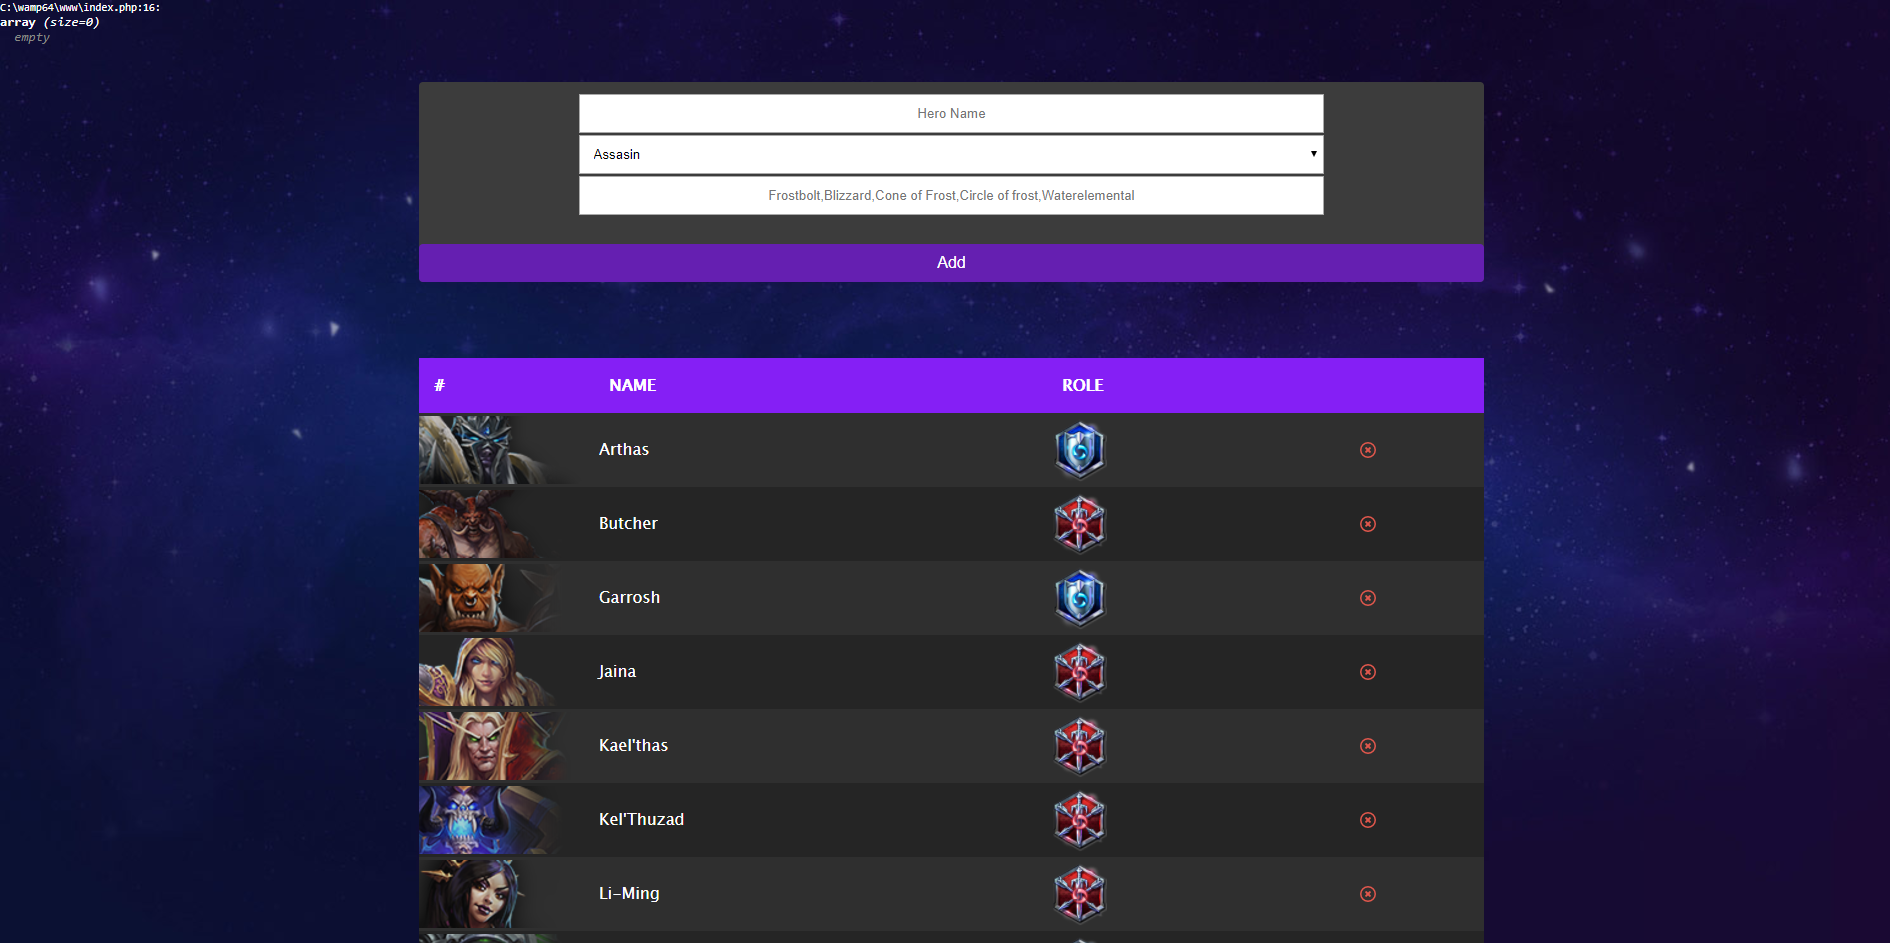
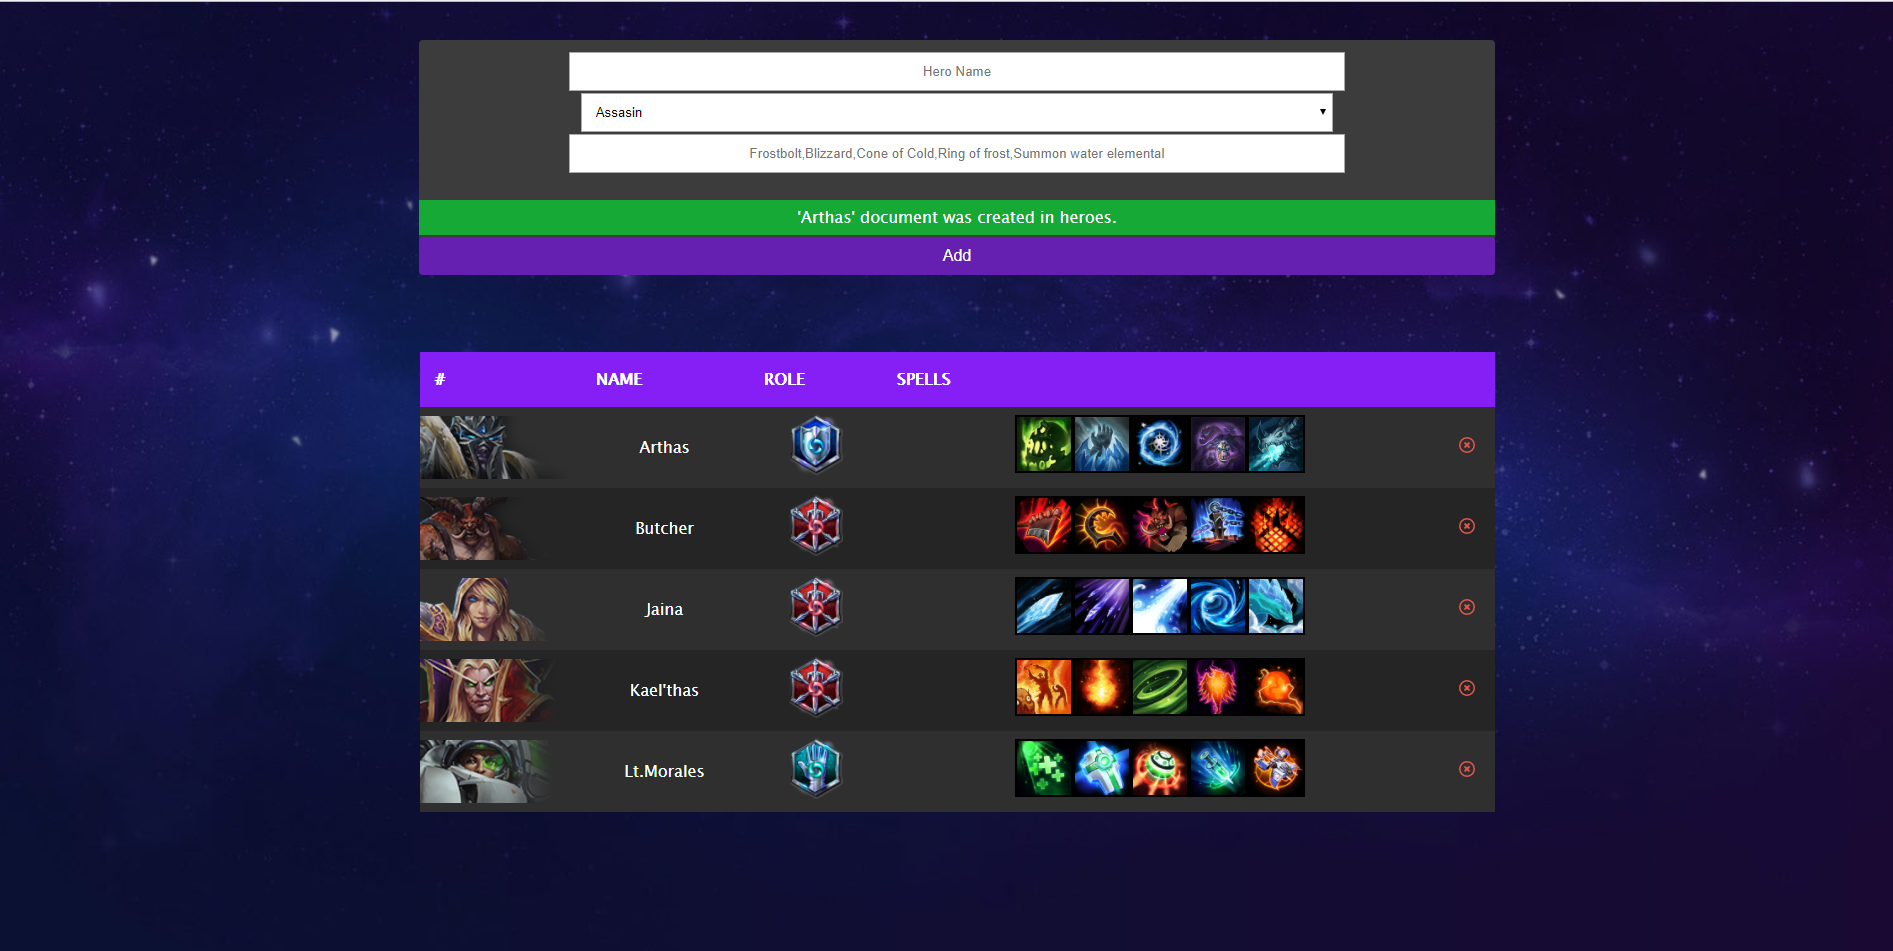
0.3 Release
Add new portrait background, role icons,    adding spells, spells icons, upgrade code, embed db.

diff --git a/css/main.css b/css/main.css
@@ -17,7 +17,7 @@ body{
 	background-size: cover;
 }
 nav{
-	margin-top:15%;
+	margin-top:2%;
 }
 main{
 	margin:0 auto;
@@ -67,7 +67,7 @@ form input[type=submit]:hover, .del:hover{
 	text-align: left;
 }
 .hero-list table td{
-	padding:10px;
+	padding:5px;
 }
 .hero-list table tr:nth-child(odd){
 	background:#2f2f2f;
@@ -81,6 +81,11 @@ form input[type=submit]:hover, .del:hover{
 .hero-role{
 	width: 55px;
     height: 64px;
+}
+.hero-ability{
+	width: 54px;
+    height: 54px;
+	border: 2px solid #000;
 }
 .sucess{
 	background: #16a935;

diff --git a/class/hots.class.php b/class/hots.class.php
@@ -2,7 +2,7 @@
 
 /*********************************************************
  * Name:		HOTS MongoDB Library
- * Version:		v0.2-alpha
+ * Version:		v0.3
  * Author:		Gaizka González Graña (gaizka.gzgr@gmail.com)
  * License:		MIT (https://github.com/Gaizka-gzgr/MOTS-MongoDB-Library-/blob/master/LICENSE)
  * Copyright 2017 - i++
@@ -13,9 +13,10 @@ class Hots
 {
 	//Create private vars.
 	private $client;
-	private $collection;
+	private $heroes;
 	private $url = "mongodb://localhost:27017";
-	private $imgroot = "img/heroes/ui_targetportrait_hero_";
+	private $imgroot = "img/heroes-bg/storm_ui_ingame_partypanel_btn_";
+	private $btnroot = "img/spells/storm_ui_icon_";
 	
 	//We autoload mongodb functions and set private variables
 	public function __construct(){
@@ -25,50 +26,85 @@ class Hots
 		//New MongoDB Object
 		$client = new MongoDB\Client($this->url);
 		
-		//Set the collection to root hots ->heroes
-		$collection = $client->hots->heroes;
+		//Set the heroes to root hots ->heroes
+		$heroes = $client->hots->heroes;
 		
-		//Set our private vars with mongodb client and collection
+		//Set our private vars with mongodb client and heroes 
 		$this->client = $client;
-		$this->collection = $collection;
+		$this->heroes = $heroes;
 	}
 	
-	//We need a function for add documents (heroes) to our collection (hots).
-	public function addHero($name, $role)
+	//We need a function for add documents (heroes) to our heroes (hots).
+	public function addHero($name, $role, $spells)
 	{
 		//Set $_POST Vars and Sanitize&Validate
-		$name = filter_var($_POST['hname'], FILTER_SANITIZE_STRING);
-		$role = filter_var($_POST['htype'], FILTER_SANITIZE_STRING);
+		$name 	= filter_var($_POST['hname'], FILTER_SANITIZE_STRING);
+		$role 	= filter_var($_POST['htype'], FILTER_SANITIZE_STRING);
+		$spells = filter_var($_POST['spells'], FILTER_SANITIZE_STRING);
+		
+		//Add all spells from input box to here.
+		$spell = $this->addSpells($spells);
+		if(empty($spell[0])){$spell[0] = "";}
+		if(empty($spell[1])){$spell[1] = "";}
+		if(empty($spell[2])){$spell[2] = "";}
+		if(empty($spell[3])){$spell[3] = "";}
+		if(empty($spell[4])){$spell[4] = "";}
+
 		
 		//If the vars $name nad $role is not empty we insert them.
 		if(!empty($name && $role))
 		{
-				//Insert one document to collection.
-				$result = $this->collection->insertOne([ 
+				//Insert one document to heroes.
+				$result = $this->heroes->insertOne([ 
 					'name' => $name, 
 					'role' => $role, 
+					'spells' => [ //Embed spell in spells.
+						'spell1' => $spell[0],
+						'spell2' => $spell[1],
+						'spell3' => $spell[2],
+						'ult1' => $spell[3],	
+						'ult2' => $spell[4],
+					]
 				]);
-
+			
 				//Sucess message
-				$_SESSION['msg'] = "<p class='sucess'>'$name' document was created in collection.</p>";
+				$_SESSION['msg'] = "<p class='sucess'>'$name' document was created in heroes.</p>";
 		}
 		//$name nad $role are empty.
 		else
 			$_SESSION['msg'] = "<p class='error'>One of fields are empty!</p>";
 		
 		//We use $_SESSION instead of return message for prevent reload page and insert same document.
-		//We redirect for prevent reload page and reload session message.
 		header("Location: /");
 
 	}
 	
+	//Function doe explode spells array and use it and embed to hero.
+	public function addSpells($spells)
+	{	
+		//Make array with spells
+		$spell = array();
+		
+		//Explode all words with delimiter ","
+		$spell = explode(",", $spells);
+		
+		//Indexing all spells in $i
+		foreach($spell as $index){
+				$i[] = $index;
+		}
+		
+		//Return all spells in array-
+		return $i;
+	}
+	
+	//Function for delete hero 
 	public function delHero($name)
 	{
 		//Set $_POST hero name and sanitize string
 		$name = filter_var($_POST['_heroName'], FILTER_SANITIZE_STRING);
 		
-		//Delete one document from collection.
-		$result = $this->collection->deleteOne([ 
+		//Delete hero with his name from heroes.
+		$result = $this->heroes->deleteOne([ 
 				'name' => $name,
 		]);
 		
@@ -79,31 +115,52 @@ class Hots
 		echo json_encode(array('status' => $status));
 	}
 		
-	
-	//We list all heroes in collection hots
+
+	//We list all heroes in hots->heroes
 	public function listHero()
 	{
 		//Echo table and tr with th.
 		echo '
 			<table>
-			<tr><th>#</th><th>Name</th><th>Role</th><th></th><tr>
+			<tr><th>#</th><th>Name</th><th>Role</th><th>Spells</th><th></th><tr>
 			';
-			//We find all documents in collection "Heroes"
-			$index = $this->collection->find();
-			//For each document, we set name and role and echo them in table with td.
-			foreach($index as $document){
-				$name = $document["name"];
-				$role = $document["role"];
-				echo "<tr><td><img class='hero-portrait' src='$this->imgroot$name.jpg'></td><td class='heroName'>$name</td><td><img class='hero-role' src='img/role/$role.png' alt='Hero role: $role'></td><td><img class='del' src='img/del.png'></td></tr>";
+			//We find all documents in heroes "Heroes"
+			$heroes = $this->heroes->find([],
+				[
+					'sort' => ['name' => +1] // Sort by : name ; - 1 to DESC ; +1 to ASC
+				]);
+		
+			//For each document, we set name, role and spells (array) and echo them in table with td.
+			foreach($heroes as $hero){
+				$name = $hero["name"];
+				$role = $hero["role"];	
+				$spells = $hero["spells"];
+
+				//Remove ' from names.
+				$nameFix = strtolower(str_replace("&#39;", "", $name));
+				
+				//echo foreach
+				echo "
+					<tr>
+						<td style='background: url($this->imgroot$nameFix.png) no-repeat 50%/125%;width:15%;'></td>
+						<td class='heroName'>$name</td>
+						<td><img class='hero-role' src='img/role/$role.png' alt='Hero role: $role'></td>
+						<td>
+					";
+						//For each spell in spells we echo it inside td.
+						foreach($spells as $spell)
+						{
+							//Remove ' and white space from ability name.
+							$spellFix = strtolower(str_replace(array(" ", "&#39;"), "", $spell));
+							echo "<img class='hero-ability' src='$this->btnroot$nameFix&#95;$spellFix.png' alt='Ability: $spell'>";
+						}
+				echo "
+						</td>
+						<td><img class='del' src='img/del.png'></td>
+					</tr>";
 			}
-		echo '</table>';
+		echo '</table>';//close table
 	}
-	
-	
-	
-	
-	
-	
 	
 }
 ?>

diff --git a/index.php b/index.php
@@ -12,15 +12,11 @@ require_once __DIR__ . "/class/hots.class.php";
 //New Hots Class
 $hots = new Hots();
 
-//Check $_POST is not empty from form.
-var_dump($_POST);
-
-
 //If submit is set.
 if(isset($_POST['submit']))
 {
 	//Now we execute function with this two vars from post, too we set $msg for return message.
-	$msg = $hots->addHero($_POST['hname'], $_POST['htype']);
+	$hots->addHero($_POST['hname'], $_POST['htype'], $_POST['spells']);
 }
 
 ?>
@@ -55,10 +51,11 @@ if(isset($_POST['submit']))
 			<option>Specialist</option>
 			<option>Warrior</option>
 		</select>
+		<input type="text" name="spells" placeholder="Frostbolt,Blizzard,Cone of Cold,Ring of frost,Summon water elemental">
 		<br>
 		<?php
 			//echo msg.
-			echo $msg;
+			if(!empty($msg)){echo $msg;}
 		 ?>
 		<input type="submit" name="submit" value="Add">
 	</form>
